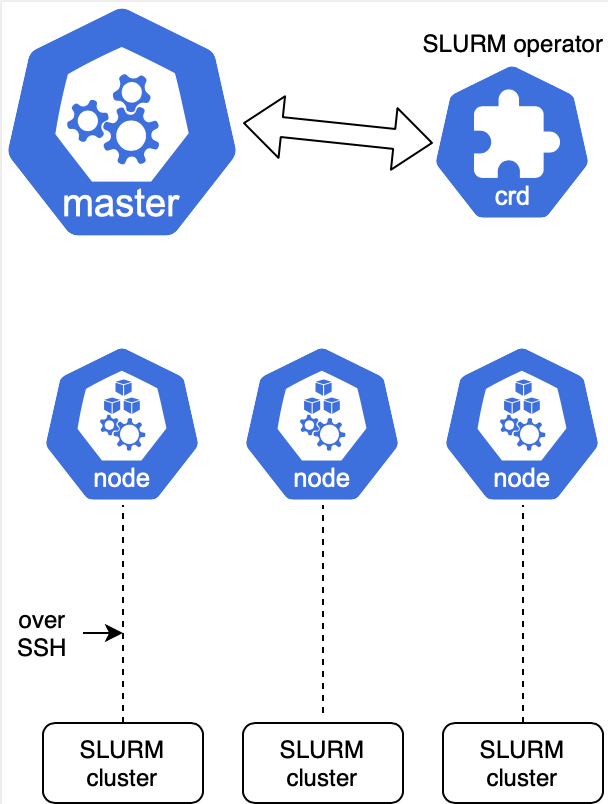
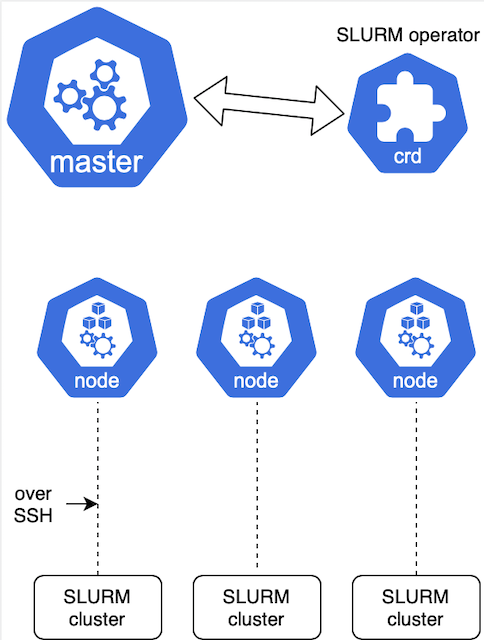
Resize images

diff --git a/README.md b/README.md
@@ -6,8 +6,8 @@ will spawn a `job-companion` container that will talk to slurm. There are two sl
 connection modes supported: local communication or ssh connection. The difference of
 that two modes and what cluster topology they require is illustrated below.
 
-![local mode](/docs/local-mode.png =500x500)
-![ssh mode](/docs/ssh-mode.png =500x500)
+![ssh mode](/docs/ssh-mode.png)
+![local mode](/docs/local-mode.png)
 
 Depending on the chosen mode installation steps may vary.
 
